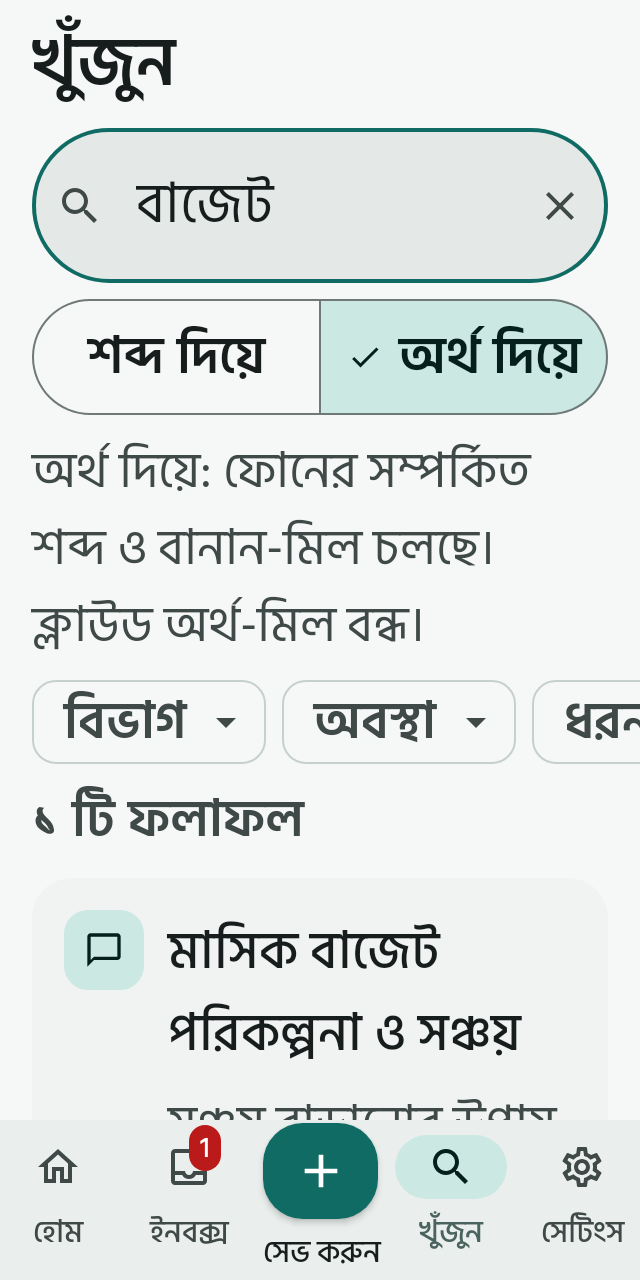
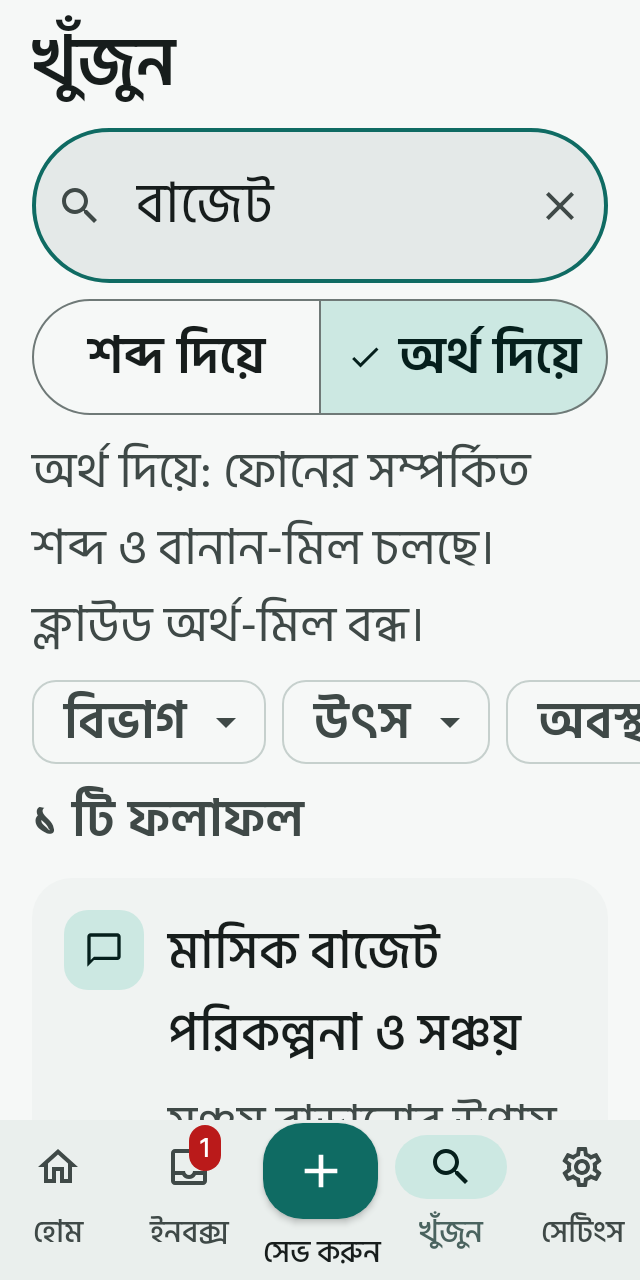
Phase 1 close-out: full regression green, report, checklist, re-recorded M7 screenshots
Claude-Session: https://claude.ai/code/session_015hHp7iCA9mZk2cc4Tywbh7

Changed region(s): [[0.75, 0.5312, 1.0, 0.5938], [0.5, 0.5312, 0.6875, 0.5938]]

diff --git a/docs/phase1-report.md b/docs/phase1-report.md
@@ -1,0 +1,32 @@
+# Phase 1 report — M1–M7 development gaps (2026-11-27)
+
+Scope: the 10 gaps found in the 2026-11-26 repository audit, implemented with the owner's 5 decisions of 2026-11-27.
+**Status: development done and automated tests pass. Nothing here is verified on a real phone yet** (phone tests are
+deliberately not started; they belong to Phase 4 Final Testing). No Notion property was added, removed or renamed;
+Google OAuth and signing configuration were not changed; no paid service is used.
+
+| # | Gap (spec) | What was built | Automated evidence | Still needs (Phase 4) |
+|---|---|---|---|---|
+| 1 | Per-item sync state (8.5) | BACKED_UP / SYNCED states; set after a verified backup; DB trigger reverts on edit | P1SyncStateTest | real backup + Notion |
+| 2 | Search result card & filters (9.1) | topic path · platform · date line; topic / source / backed-up filters; keywords, entities, link text indexed | M6FlowTest, P1EnrichmentTest | phone UI |
+| 3 | AI schema (4.4) | keywords, entities, related items (AI links, dismissible), action items as text or objects (dates ignored) | P1EnrichmentTest | real Gemini key |
+| 4 | Sensitive-data check (4.1 #13) | card (Luhn), OTP, password, secret key, NID, bank account → item made "local only", cloud skipped; owner's own choice wins | P1EnrichmentTest | — |
+| 5 | Bengali OCR (3) — decision 1 | Tesseract `ben` model on the device (offline, SHA-256 checked), merged with ML Kit; scanned PDF OCR (≤10 pages) | OcrMergeTest, P1LinkOcrTest | accuracy on real photos |
+| 6 | Link metadata (3) — decision 2 | opt-in toggle, **off by default**; HTTPS only, 512 KB cap, YouTube oEmbed; never for local-only items | P1LinkOcrTest | real network |
+| 7 | Incremental attachment backup (8.1) | backup format 2: each file one encrypted blob, uploaded once, resumable, verified; orphan clean-up; format 1 still restores | BackupRestoreTest 19 | real Drive backup + clean-install restore |
+| 8 | Large Notion files (7.4) — decision 4 | opt-in, **off by default**; files over 5 MB go to the owner's Drive folder "Personal Knowledge OS Files" (not encrypted, sharing never changed) and the existing Files & media property gets the link | NotionSyncServiceTest 15, NotionFlowTest | real Notion + Drive |
+| 9 | Second AI provider (4.6) — decision 3 | OpenAI-compatible endpoint (https only, model, optional key in Keystore), cost warning, 402/quota stop; cloud AI still **off by default**; embeddings stay Gemini-only | P1CompatProviderTest, ProcessingFlowTest | owner's real endpoint |
+| 10 | Library-wide graph (9 #3) | Knowledge map: projects (main categories), topics, concepts (tags/keywords in 2+ items), bridges between projects, co-occurrence, cross-project links | M6FeaturesTest, M6FlowTest | phone UI / TalkBack |
+
+Database: v7 (AutoMigration 6→7, tested v1→v7 with data). Release signing (decision 5) is Phase 2 work.
+
+## Full regression (clean build, 2026-11-27)
+`:core:notion` 56/56 · `:core:data` 122/122 · `:app` 68/68 · screenshots 48/48 · lint 0 errors (32 warnings) ·
+assembleDebug + assembleRelease OK. Three M7 large-font screenshots were re-recorded because the screens changed (new search
+filters and the Knowledge map row).
+
+## Known limits (honest)
+- Tesseract model is the 3.04 `ben` file (15.5 MB, adds to APK size); recognition quality on real photos is not measured.
+- The Drive link for large Notion files opens only for the owner's Google account.
+- With the compatible provider, meaning search uses the offline layer only.
+- GitHub push is blocked (HTTP 403): commits are saved locally only until write access is re-authorized.

diff --git a/CHECKLIST.md b/CHECKLIST.md
@@ -14,7 +14,7 @@ Status legend: ✅ done & tested · 🟡 partly done · ⬜ not started · 🔒 
 | R-08 | Offline support | 🟡 | Capture, extraction, OCR, local classification, search offline (tested); Notion queue waits for network (WorkManager constraint); backup queue in M5 |
 | R-09 | No silent paid usage | ✅ | Cloud AI off by default, owner key only, quota/429 → local fallback, never paid |
 | R-10 | Export & recovery | 🟡 | M6: zip export (JSON/CSV/Markdown/attachments + SHA-256 report, local-only opt-in, no secrets) + local integrity check, tested; recovery = M5 encrypted restore. No export-zip import. Real-phone file-picker check pending |
-| R-11 | 10 advanced features | 🟡 | M6: all 10 implemented & tested (docs/m6-report.md). Limits: offline “meaning” = related words + spelling (vectors only with cloud key), graph is per-item, chat single-turn; reminders, SAF export and Gemini paths not yet verified on a phone |
+| R-11 | 10 advanced features | 🟡 | M6: all 10 implemented & tested (docs/m6-report.md). Limits: offline “meaning” = related words + spelling (vectors only with cloud key), library-wide Knowledge map added in Phase 1, chat single-turn; reminders, SAF export and Gemini paths not yet verified on a phone |
 | R-12 | Premium UX | 🟡 | M1–M7: design system, bn/en parity test, dark mode, WCAG AA contrast test, 48 dp + label audit on all main screens, 2× font on 320 dp audit; real TalkBack check pending |
 
 ## Build environment
@@ -23,6 +23,9 @@ Status legend: ✅ done & tested · 🟡 partly done · ⬜ not started · 🔒 
 - No emulator (no KVM): UI verified with Robolectric Compose tests and Roborazzi screenshots; device install by owner.
 
 ## Last verified checkpoint
+2026-11-27 — Phase 1 (10 M1–M7 gaps, DB v7): :core:notion 56/56, :core:data 122/122, :app 68/68, screenshots 48/48,
+lint 0 errors, debug + release OK. Report: docs/phase1-report.md. No phone verification yet (Phase 4).
+
 2026-11-22 — M7 round 2 (§10.1 privacy controls, Drive revoke, AES export): :core:notion 56/56, :core:data 100/100, :app 63/63,
 screenshots 48/48 (47 in full run + fixed x05 re-run 5/5), lint 0 errors, debug + release OK. M7 exit Pending phone checks (docs/m7-acceptance-guide.md).
 

diff --git a/README.md b/README.md
@@ -12,8 +12,9 @@ M3 processing ([report](docs/m3-report.md)) · M4 Notion integration ([report](d
 **M5 encrypted Drive backup — built & tested, real-Drive verification pending** ([report](docs/m5-report.md), [guide](docs/backup-restore-guide.md)) ·
 **M6 search & advanced features — automated tests and local builds pass; real-device checks (reminders, export picker, Gemini) not yet done** ([report](docs/m6-report.md#3-real-device-verification-not-yet-done--owner-on-the-phone)): offline FTS + meaning search, cited Ask,
 knowledge graph, topic de-duplication, recommendations, timeline, confirm-first tasks, opt-in reminders, smart collections, zip export + integrity check.
-Limitations: single-turn Ask, per-item graph only, no import of the export ZIP (restore = M5 Drive backup).
+Limitations: single-turn Ask, no import of the export ZIP (restore = M5 Drive backup).
 **M7 hardening — automated audits, fixes and spec §10.1 privacy controls done; M7 is *not* complete until the phone acceptance checks pass** ([report](docs/m7-report.md), [phone guide](docs/m7-acceptance-guide.md), [old debug key](docs/security-debug-keystore-history.md)).
+**Phase 1 (10 development gaps) — built and automated tests pass; not yet verified on a phone** ([report](docs/phase1-report.md)).
 
 ## Modules
 | Module | Type | Purpose |
